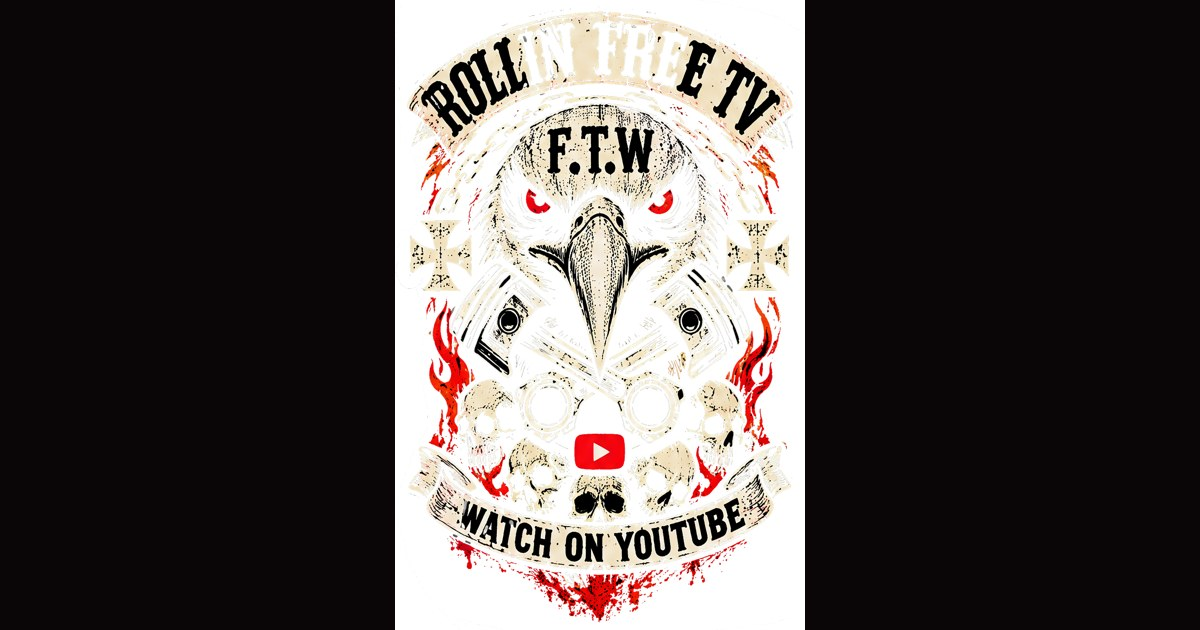
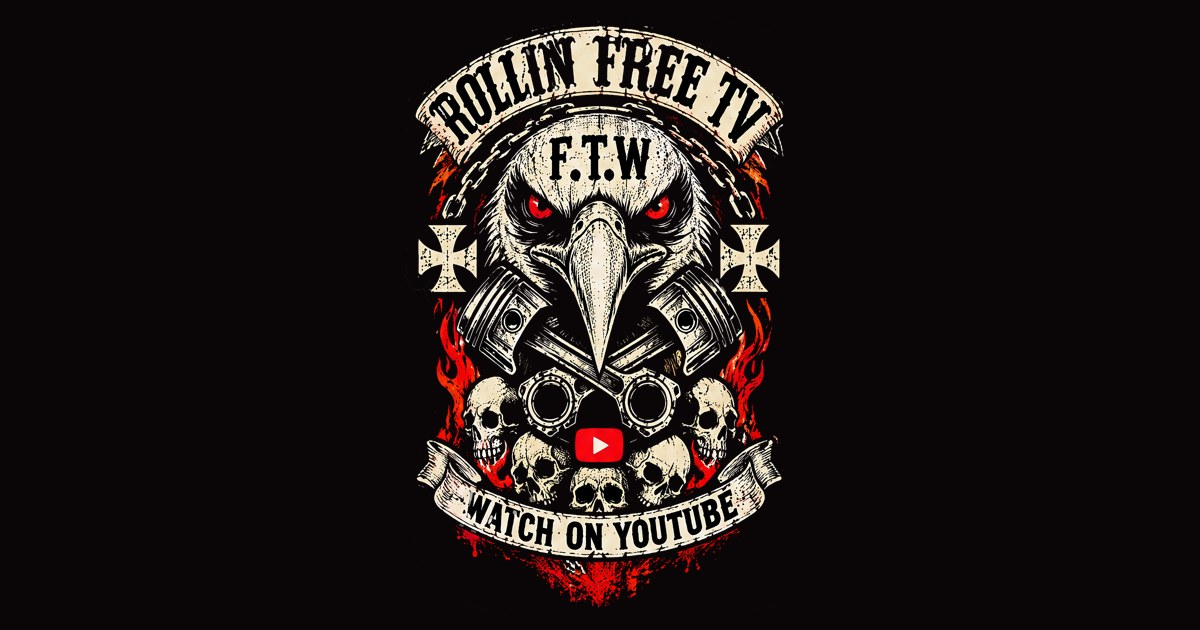
Keep the artwork's transparency on the dark hero
The F.T.W. PNG is mostly transparent with white underneath, and the
first conversion flattened it onto white, so the hero showed a white
poster box on the dark site. The hero image now keeps its alpha and is
shown whole (contain, not cover) over the card's dark background. The
social card and favicon are flattened onto the site's dark colour, and
the design cards use a dark gradient instead of a checkerboard.

Claude-Session: https://claude.ai/code/session_01AkUCsm334fL5QDUUdJMqvY

Changed region(s): [[0.3083, 0.0, 0.6783, 1.0]]

diff --git a/web/src/components/Hero.tsx b/web/src/components/Hero.tsx
@@ -159,7 +159,7 @@ export function Hero({
                   <img
                     src={settings.avatar_url ?? defaultAvatar}
                     alt={settings.display_name}
-                    className="absolute inset-0 h-full w-full object-cover object-top"
+                    className="absolute inset-0 h-full w-full object-contain object-center p-3 sm:p-4"
                     loading="eager"
                   />
                   <div className="absolute inset-0 bg-gradient-to-t from-void via-void/25 to-transparent" />

diff --git a/web/src/components/Designs.tsx b/web/src/components/Designs.tsx
@@ -123,7 +123,7 @@ export function Designs() {
                 className="relative flex aspect-[4/5] items-center justify-center overflow-hidden"
                 style={{
                   background:
-                    "repeating-conic-gradient(#17131f 0 25%, #0c0a11 0 50%) 0 0 / 28px 28px",
+                    "radial-gradient(120% 120% at 50% 0%, rgba(255,255,255,0.07), transparent 60%), linear-gradient(160deg, #17131f, #0c0a11)",
                 }}
               >
                 {IMAGE_EXT.has(ext) ? (
